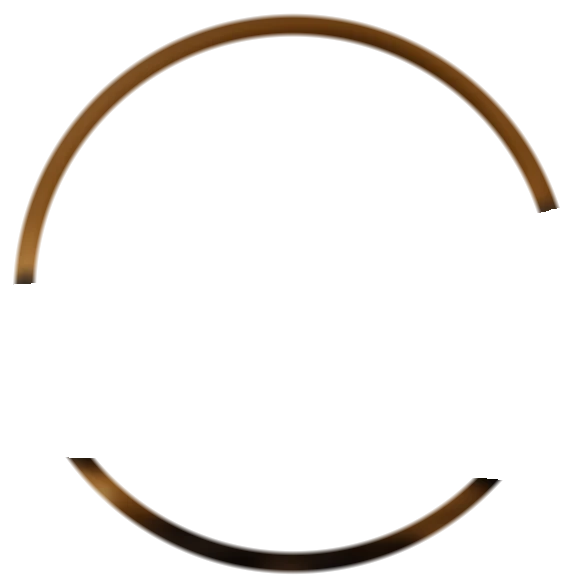
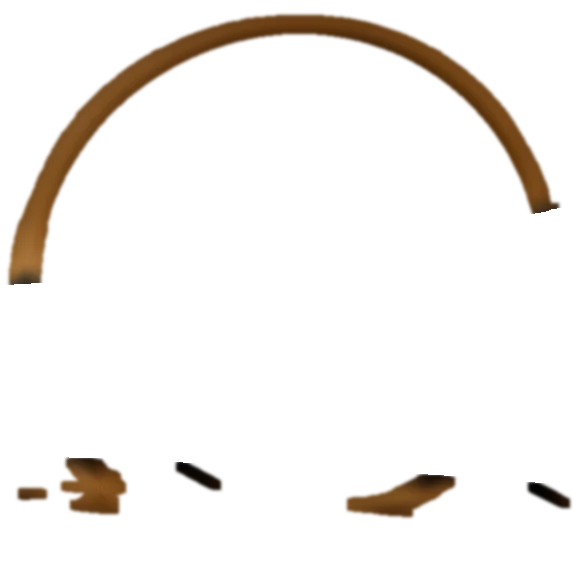
Кольцо загорается без второго кольца внизу; фон снова чёрный (Сергей: «там два кольца получается… второе исчезает», «легкое оранжевое свечение… раньше был черный»)
Заплатка «кольцо выключено» шла полосой по идеальному кругу: внизу круг проходит за столом, и во вступлении
по столу, клавиатуре и мышке была видна тёмная дуга, а настоящий штрих кольца справа под монитором (на ~50 px
левее круга) горел с самого начала. Свет кольца и заплатка пересобраны по настоящим светящимся пикселям
(scratchpad/make_ring_assets.py): линия у круга выше заднего края стола и белые штрихи под мониторами;
заплатка лежит только на свете, стол, подставки и клавиатуру не трогает.
Фон, карточки и линии — прежние чёрные (тень комнаты #140C05 снята), подъём теней снимка убран
(фильтр hd-lift и lift в шейдере). Текст, акцент, знак вердикта и янтарь кнопки остались.

diff --git a/src/styles/v3-skin.css b/src/styles/v3-skin.css
@@ -1,20 +1,21 @@
 /* =====================================================================
    Облик главной ("/") — план «Облик TRADELIKETYO», шаг 2 (23.10.2026, Сергей: «Ставь»).
    Два шрифта: Literata — заголовки и текст, Onest — кнопки, меню, цифры, подписи.
-   Цвета со снимка первого экрана: фон — тень комнаты, текст — тёплая «бумага», линии —
-   приглушённый пар, акцент — песочный «Допуск», янтарь кольца — только у главной кнопки.
+   Цвета: фон чёрный, текст — тёплая «бумага», акцент — песочный «Допуск», янтарь кольца — только
+   у главной кнопки. Фон цвета тени комнаты (#140C05) был на сайте 23.10.2026 и снят в тот же день,
+   Сергей: «легкое оранжевое свечение по всему сайту… раньше был черный… это наоборот не очень».
    Scoped to .v3-skin so /school (the cabinet / counters) is untouched.
    ===================================================================== */
 @import url('https://fonts.googleapis.com/css2?family=Literata:ital,opsz,wght@0,7..72,400..700;1,7..72,400..600&family=Onest:wght@400..700&display=swap');
 
 .v3-skin {
-  --v3-bg:       #140C05;   /* Комната — тень со снимка */
+  --v3-bg:       oklch(0.09 0.012 70);   /* почти чёрный, как края снимка (#030202): сцена сливается с фоном */
   --v3-fg:       #EFE8DA;   /* Бумага */
   --v3-mut:      #A59E92;
   --v3-faint:    #6E665B;
   --v3-gold:     #E9C793;   /* Допуск — как растущие свечи на мониторах */
   --v3-gold-dim: #8C6A3D;
-  --v3-line:     #2E1C0C;   /* Пар, приглушённый до линии */
+  --v3-line:     oklch(0.20 0.01 75);
   --v3-ring:     #E9A54A;   /* Кольцо — только главная кнопка */
   --v3-admit:    #E9C793;   /* знак «Допуск» */
   --v3-reject:   #748093;   /* знак «Отказ» — как падающие свечи */
@@ -23,30 +24,20 @@
   /* имя осталось от моноширинных подписей; с шага 2 подписи набраны Onest */
   --font-mono:    'Onest', 'Segoe UI', system-ui, -apple-system, sans-serif;
 }
-/* те же цвета для токенов страницы (в index.css они холодные — для кабинета); основной текст — Literata */
+/* текст и акцент страницы — «бумага» и песочный; фон, карточки и линии — прежние чёрные из index.css.
+   Основной текст — Literata */
 .v3-skin.landing-skin {
-  --background: 28 60% 5%;
   --foreground: 40 42% 90%;
-  --card: 28 44% 8%;
   --card-foreground: 40 42% 90%;
-  --popover: 28 44% 8%;
   --popover-foreground: 40 42% 90%;
   --primary: 40 42% 90%;
-  --primary-foreground: 28 60% 5%;
-  --secondary: 28 35% 10%;
   --secondary-foreground: 38 12% 64%;
-  --muted: 28 35% 10%;
   --muted-foreground: 38 12% 64%;
   --accent: 36 66% 75%;
-  --accent-foreground: 28 60% 5%;
   --accent-dim: 33 40% 36%;
-  --border: 28 50% 13%;
-  --input: 28 40% 16%;
   --ring: 34 79% 60%;
   font-family: var(--font-display);
 }
-html:has(.v3-skin.landing-skin),
-html:has(.v3-skin.landing-skin) body { background: #140C05; }
 
 /* главная кнопка «Попробовать 7 дней» — янтарь кольца, и только она */
 .v3-skin .cta-trial {

diff --git a/src/components/landing/HeroDeskScene.tsx b/src/components/landing/HeroDeskScene.tsx
@@ -58,9 +58,6 @@ const D_RING = 0.06;
 const D_DUST = 0.7;
 const MAX_OFF = 40;
 const ZOOM0 = 0.28;
-// тень комнаты со снимка (#140C05, облик 23.10.2026): до неё поднимается чёрный снимка, и сцена сливается
-// со страницей того же цвета: SVG-фильтр hd-lift-… у фото, в 3D — шейдер (heroDepth.ts)
-const LIFT = [20, 12, 5];
 
 // инструменты в карточках — только то, что Сергей разбирает (нефть он не торгует)
 const SYMBOLS = ['XAUUSD', 'EURUSD', 'GBPJPY', 'BTCUSD', 'USDCAD', 'AUDJPY', 'ETHUSD', 'GBPUSD'];
@@ -143,7 +140,7 @@ export default function HeroDeskScene({ variant, className }: Props) {
 
     // проба 3D: включается адресом с ?3d, обычные посетители видят прежнюю сцену
     const depth = new URLSearchParams(window.location.search).has('3d')
-      ? createDepthPhoto(photo3d, deskImg, depthUrl, [LIFT[0] / 255, LIFT[1] / 255, LIFT[2] / 255])
+      ? createDepthPhoto(photo3d, deskImg, depthUrl)
       : null;
     let use3d = false;
     depth?.whenReady.then(() => {
@@ -525,19 +522,7 @@ export default function HeroDeskScene({ variant, className }: Props) {
     <div ref={root} className={`hd-scene relative overflow-hidden ${className ?? ''}`} aria-hidden="true">
       <div data-zoom className="hd-layer" style={{ transform: 'scale(1.14)' }}>
         <div data-back className="hd-layer">
-          <svg data-photo {...svgProps}>
-            {/* подъём теней до цвета страницы: чёрный снимка становится цветом комнаты */}
-            <defs>
-              <filter id={`hd-lift-${variant}`} colorInterpolationFilters="sRGB">
-                <feComponentTransfer>
-                  <feFuncR type="linear" slope={1 - LIFT[0] / 255} intercept={LIFT[0] / 255} />
-                  <feFuncG type="linear" slope={1 - LIFT[1] / 255} intercept={LIFT[1] / 255} />
-                  <feFuncB type="linear" slope={1 - LIFT[2] / 255} intercept={LIFT[2] / 255} />
-                </feComponentTransfer>
-              </filter>
-            </defs>
-            <image href={deskImg} width="1672" height="941" filter={`url(#hd-lift-${variant})`} />
-          </svg>
+          <svg data-photo {...svgProps}><image href={deskImg} width="1672" height="941" /></svg>
           {/* проба 3D (адрес с ?3d): то же фото через WebGL по карте глубины */}
           <canvas data-photo3d className="hd-layer" style={{ display: 'none' }} />
           {/* слой кольца: заплатка «кольцо выключено», прорисовка и блик, свечение, дымка */}

diff --git a/src/components/landing/heroDepth.ts b/src/components/landing/heroDepth.ts
@@ -67,7 +67,6 @@ uniform float zoom;
 uniform vec2 focus;
 uniform float pivot;
 uniform float time;
-uniform vec3 lift;
 varying vec2 v;
 const vec2 SIZE = vec2(${IMG_W}.0, ${IMG_H}.0);
 // пар: сдвиг за период (px кадра) и периодов в секунду — подъём около 17 px кадра в секунду
@@ -115,8 +114,6 @@ void main() {
   vec4 c;
   if (m > 0.004) c = steam(s, m);
   else c = texture2D(img, s / SIZE);
-  // подъём теней: чёрный снимка становится цветом страницы, белый остаётся белым
-  c.rgb = c.rgb * (1.0 - lift) + lift;
   gl_FragColor = c * inside;
 }
 `;
@@ -138,8 +135,8 @@ function loadImage(url: string) {
   });
 }
 
-/** null — WebGL недоступен: остаётся обычное фото. lift — до какого цвета (0…1) поднять тени снимка */
-export function createDepthPhoto(canvas: HTMLCanvasElement, photoUrl: string, depthUrl: string, lift: [number, number, number] = [0, 0, 0]) {
+/** null — WebGL недоступен: остаётся обычное фото */
+export function createDepthPhoto(canvas: HTMLCanvasElement, photoUrl: string, depthUrl: string) {
   const gl = canvas.getContext('webgl', { alpha: true, antialias: false, premultipliedAlpha: true, preserveDrawingBuffer: false });
   if (!gl) return null;
   const vs = shader(gl, gl.VERTEX_SHADER, VS);
@@ -165,7 +162,6 @@ export function createDepthPhoto(canvas: HTMLCanvasElement, photoUrl: string, de
   gl.uniform1i(u('dep'), 1);
   gl.uniform2f(uFocus, FOCUS.x, FOCUS.y);
   gl.uniform1f(uPivot, PIVOT);
-  gl.uniform3f(u('lift'), lift[0], lift[1], lift[2]);
 
   const texture = (unit: number, im: HTMLImageElement) => {
     const t = gl.createTexture();

diff --git a/src/styles/look-v4.css b/src/styles/look-v4.css
@@ -52,7 +52,7 @@
 .hd-card__v4 { display: none; }
 html.look-v4 .hd-card > :not(.hd-card__v4) { display: none; }
 html.look-v4 .hd-card__v4 { display: block; }
-html.look-v4 .hd-card { border-color: var(--v3-line); background: rgba(28, 19, 11, 0.94); }
+html.look-v4 .hd-card { border-color: var(--v3-line); }
 .hd-card__row { display: flex; align-items: center; gap: 10px; }
 .hd-card__sym { font-family: var(--font-ui); font-weight: 600; font-size: 14px; color: var(--v3-fg); }
 .hd-card__why { margin-top: 8px; font-family: var(--font-display); font-size: 14px; line-height: 1.35; color: var(--v3-fg); }
